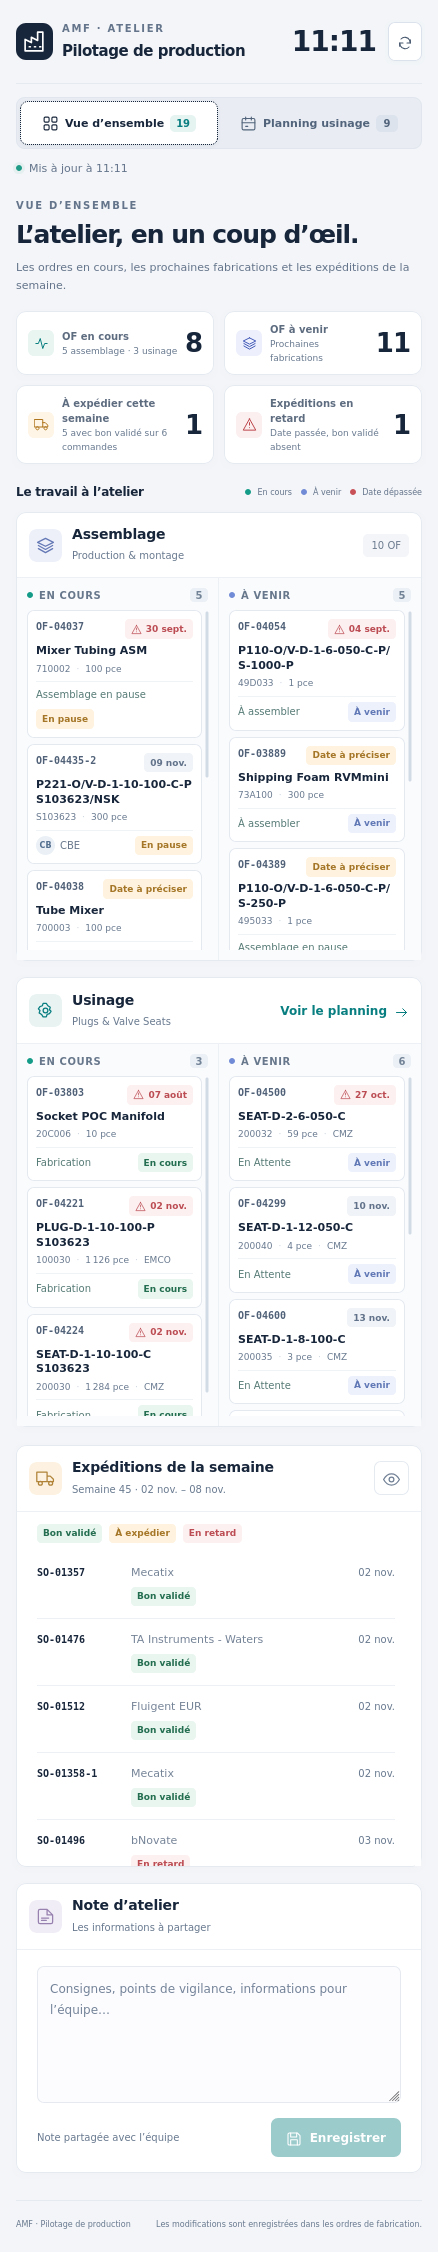
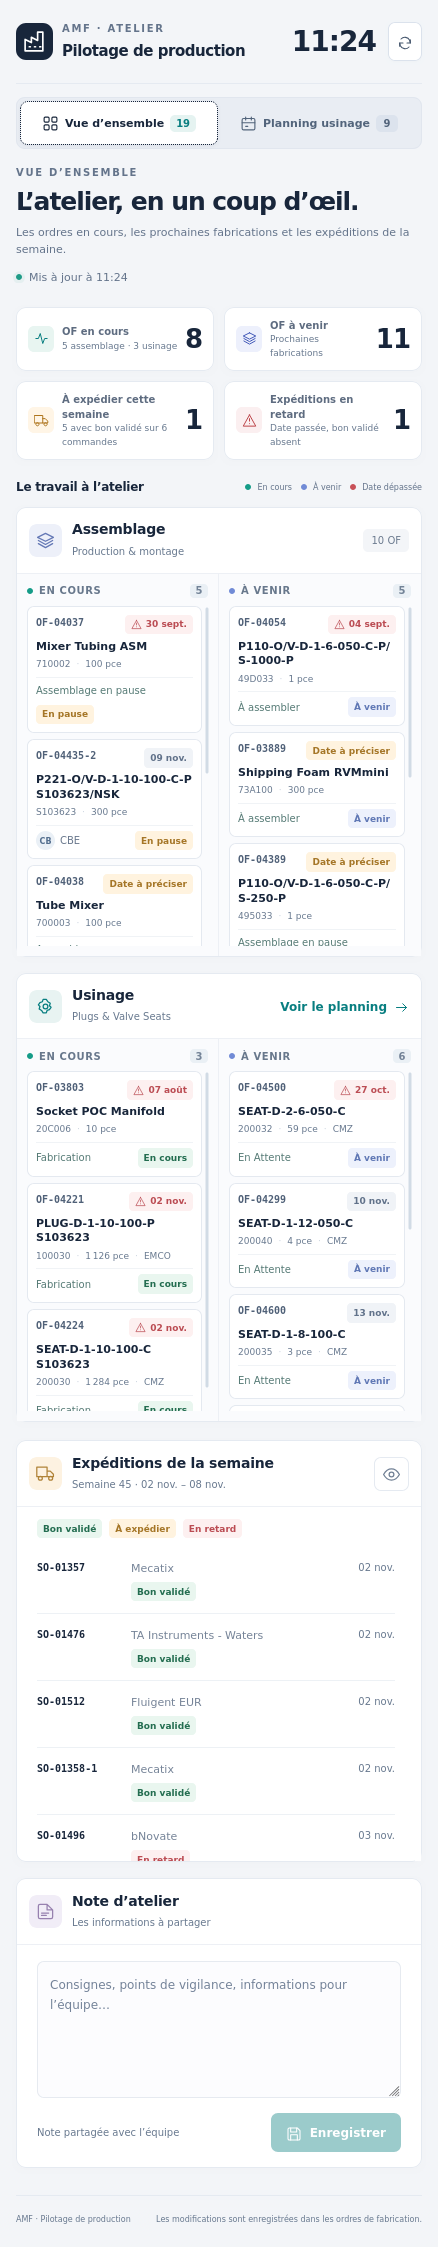
style: place production overview heading beside navigation tabs
Move the overview introduction into the navigation row on wide screens and stack it on smaller screens. Hide it when the machining tab is active, preserving mouse and keyboard tab behavior.

Validation: Firefox layout checks at 1600, 1024 and 450 pixels; published page verified.

diff --git a/amf/templates/includes/production_tracking_planning/page.css b/amf/templates/includes/production_tracking_planning/page.css
@@ -35,6 +35,11 @@ body.pt-planning-page { background: #f3f5f8; }
 .pt-page .pt-text-button svg { width: 15px; height: 15px; }
 .pt-page .pt-text-button:hover { color: #075a5c; }
 .pt-page .pt-navigation { display: flex; align-items: center; justify-content: space-between; gap: 16px; padding: 16px 0; }
+.pt-page .pt-navigation-intro { flex: 1; min-width: 0; padding-left: 24px; border-left: 1px solid var(--pt-line); }
+.pt-page .pt-navigation-intro .pt-eyebrow { margin-bottom: 6px; }
+.pt-page .pt-navigation-intro p { color: var(--pt-muted); font-size: 12px; margin-top: 7px; }
+.pt-page .pt-navigation-status { display: flex; flex-direction: column; align-items: flex-end; gap: 9px; flex-shrink: 0; }
+.pt-page .pt-navigation > .pt-tabs { flex-shrink: 0; }
 .pt-page .pt-tabs { display: inline-flex; padding: 4px; border: 1px solid #e1e6ee; background: #e9edf3; border-radius: 9px; gap: 4px; }
 .pt-page .pt-tab { display: inline-flex; justify-content: center; align-items: center; gap: 9px; padding: 10px 15px; min-height: 42px; color: #52647b; background: transparent; border: 0; border-radius: 6px; font-size: 12px; font-weight: 650; }
 .pt-page .pt-tab svg { width: 17px; height: 17px; }
@@ -216,3 +221,15 @@ body.pt-planning-page { background: #f3f5f8; }
 @media (max-width: 760px) { .pt-planning-page main.container { padding: 0 16px; } .pt-page .pt-header { min-height: 84px; gap: 10px; } .pt-page .pt-brand strong { font-size: 15px; } .pt-page .pt-brand-mark { width: 37px; height: 37px; border-radius: 10px; } .pt-page .pt-brand { gap: 9px; } .pt-page .pt-clock { display: flex; } .pt-page .pt-clock strong { font-size: 28px; letter-spacing: -1px; } .pt-page #date-display { display: none; } .pt-page .pt-header-tools { gap: 12px; flex-shrink: 0; } .pt-page .pt-brand { min-width: 0; } .pt-page .pt-header-tools .pt-button { min-width: 34px; padding: 8px; } .pt-page .pt-header-tools .pt-button > span:last-child { display: none; } .pt-page .pt-navigation { display: block; padding: 13px 0; } .pt-page .pt-tabs { width: 100%; } .pt-page .pt-tab { flex: 1; padding: 9px 7px; font-size: 11px; gap: 6px; } .pt-page .pt-sync { margin-top: 11px; } .pt-page .pt-panel { padding-top: 8px; } .pt-page .pt-panel-heading { align-items: flex-start; margin-bottom: 18px; gap: 12px; } .pt-page .pt-panel-heading h1 { font-size: 25px; } .pt-page .pt-panel-heading p { font-size: 11px; line-height: 1.6; } .pt-page .pt-live-label { display: none; } .pt-page .pt-panel-heading > .pt-button { font-size: 0; padding: 9px; } .pt-page .pt-panel-heading > .pt-button svg { width: 17px; height: 17px; } .pt-page .pt-kpis { grid-template-columns: repeat(2,minmax(0,1fr)); gap: 10px; margin-bottom: 20px; } .pt-page .pt-kpi { padding: 10px 11px; gap: 8px; } .pt-page .pt-kpi > div { column-gap: 7px; } .pt-page .pt-kpi strong { font-size: 26px; } .pt-page .pt-kpi-label { font-size: 10px; } .pt-page .pt-kpi-detail { font-size: 9px; } .pt-page .pt-kpi-icon { width: 26px; height: 26px; border-radius: 6px; } .pt-page .pt-kpi-icon svg { width: 15px; height: 15px; } .pt-page .pt-legend { gap: 9px; font-size: 8px; } .pt-page .pt-section-bar h2 { font-size: 12px; } .pt-page .pt-board-header, .pt-page .pt-surface-header { padding: 12px; } .pt-page .pt-lane { padding: 10px 8px; } .pt-page .pt-order-card { padding: 8px; } .pt-page .pt-order-name { font-size: 11px; } .pt-page .pt-order-meta { font-size: 9px; } .pt-page .pt-order-top { align-items: flex-start; flex-wrap: wrap; } .pt-page .pt-order-bottom { gap: 7px; } .pt-page .pt-overview-bottom { grid-template-columns: 1fr; gap: 16px; } .pt-page .pt-table-toolbar { padding: 13px; gap: 12px; } .pt-page .pt-search { max-width: none; flex-basis: 100%; min-width: 0; } .pt-page .pt-select-filters { width: 100%; gap: 7px; flex-wrap: wrap; } .pt-page .pt-select-filters label { gap: 5px; } .pt-page .pt-select-filters label > span { display: none; } .pt-page .pt-select-filters select { max-width: 150px; font-size: 10px; } .pt-page .pt-caption-order { display: none; } .pt-page .pt-table-caption { padding: 10px 13px; } .pt-page .pt-table-footer { padding: 12px 13px; font-size: 9px; } .pt-page .pt-planning-tools { gap: 10px; } .pt-page .pt-filter-chips { gap: 5px; } .pt-page .pt-filter-chips button { font-size: 10px; padding: 5px 8px; gap: 6px; } .pt-page .pt-table .pt-source, .pt-page .pt-table th:first-child { position: static; min-width: 80px; } .pt-page .pt-table .pt-id-cell, .pt-page .pt-table th:nth-child(2) { left: 0; min-width: 95px; } .pt-page .pt-table .pt-actions, .pt-page .pt-table th:last-child { position: static; } .pt-page .pt-table th:first-child { position: sticky; } .pt-page .pt-table-wrap { max-height: 66vh; } .pt-page .pt-pending-bar { bottom: 8px; font-size: 10px; } .pt-page .pt-pending-bar button { font-size: 9px; } .pt-page .pt-page-footer { font-size: 8px; } }
 @media (prefers-reduced-motion: reduce) { .pt-page *, .pt-page *::before, .pt-page *::after { animation: none !important; transition: none !important; } }
 @media (max-width: 760px) { .pt-page .pt-table th:first-child { left: auto; } }
+@media (min-width: 761px) and (max-width: 1150px) {
+  .pt-page .pt-navigation { flex-wrap: wrap; }
+  .pt-page .pt-navigation-status { order: 1; margin-left: auto; }
+  .pt-page .pt-navigation-intro { order: 2; flex-basis: 100%; padding-left: 0; border-left: 0; }
+}
+@media (max-width: 760px) {
+  .pt-page .pt-navigation-intro { margin-top: 16px; padding-left: 0; border-left: 0; }
+  .pt-page .pt-navigation-intro h1 { font-size: 25px; }
+  .pt-page .pt-navigation-intro p { font-size: 11px; line-height: 1.6; }
+  .pt-page .pt-navigation-status { align-items: flex-start; margin-top: 11px; }
+  .pt-page .pt-navigation-status .pt-sync { margin-top: 0; }
+}

diff --git a/amf/templates/includes/production_tracking_planning/page.html b/amf/templates/includes/production_tracking_planning/page.html
@@ -8,11 +8,11 @@
       <button id="overview-tab" class="pt-tab active" type="button" role="tab" aria-selected="true" aria-controls="overview-panel"><span data-icon="dashboard"></span>Vue d’ensemble<span id="overview-tab-count" class="pt-tab-count">—</span></button>
       <button id="machining-tab" class="pt-tab" type="button" role="tab" aria-selected="false" aria-controls="machining-panel" tabindex="-1"><span data-icon="calendar"></span>Planning usinage<span id="machining-tab-count" class="pt-tab-count">—</span></button>
     </div>
-    <span id="sync-status" class="pt-sync" role="status"><i></i>Chargement des données…</span>
+    <div id="overview-intro" class="pt-navigation-intro"><div class="pt-eyebrow">VUE D’ENSEMBLE</div><h1>L’atelier, en un coup d’œil.</h1><p>Les ordres en cours, les prochaines fabrications et les expéditions de la semaine.</p></div>
+    <div class="pt-navigation-status"><span id="sync-status" class="pt-sync" role="status"><i></i>Chargement des données…</span><span id="overview-live-label" class="pt-live-label"><i></i>Suivi de production</span></div>
   </div>
 
   <section id="overview-panel" class="pt-panel" role="tabpanel" aria-labelledby="overview-tab">
-    <div class="pt-panel-heading"><div><div class="pt-eyebrow">VUE D’ENSEMBLE</div><h1>L’atelier, en un coup d’œil.</h1><p>Les ordres en cours, les prochaines fabrications et les expéditions de la semaine.</p></div><span class="pt-live-label"><i></i>Suivi de production</span></div>
     <div class="pt-kpis" aria-label="Indicateurs de production">
       <article class="pt-kpi pt-kpi-teal"><span class="pt-kpi-icon" data-icon="activity"></span><div><span class="pt-kpi-label">OF en cours</span><strong id="kpi-ongoing">—</strong><span id="kpi-ongoing-detail" class="pt-kpi-detail">Assemblage et usinage</span></div></article>
       <article class="pt-kpi pt-kpi-blue"><span class="pt-kpi-icon" data-icon="layers"></span><div><span class="pt-kpi-label">OF à venir</span><strong id="kpi-upcoming">—</strong><span class="pt-kpi-detail">Prochaines fabrications</span></div></article>

diff --git a/amf/templates/includes/production_tracking_planning/page.js b/amf/templates/includes/production_tracking_planning/page.js
@@ -612,6 +612,8 @@ frappe.ready(function () {
     if (frappe.session.user === "Guest") return;
     const tabs = [byId("overview-tab"), byId("machining-tab")];
     function activateTab(tab) {
+      byId('overview-intro').hidden = tab !== tabs[0];
+      byId('overview-live-label').hidden = tab !== tabs[0];
       tabs.forEach(button => {
         const active = button === tab;
         button.classList.toggle("active", active);

diff --git a/amf/docs/production_tracking_planning_redesign.md b/amf/docs/production_tracking_planning_redesign.md
@@ -9,6 +9,8 @@ clear visual hierarchy, compact status labels and a responsive layout. Its route
 The later density adjustment enlarges the desktop clock to 42 px (28 px on mobile),
 places summary values beside their labels to reduce the four-panel row height, and
 tightens the production card padding, spacing and lane headers without truncating labels.
+The overview eyebrow, title and description sit beside the two navigation tabs on wide
+screens, stack below them on tablet/mobile, and hide when the machining tab is active.
 
 ## Deploying to the live site
 
